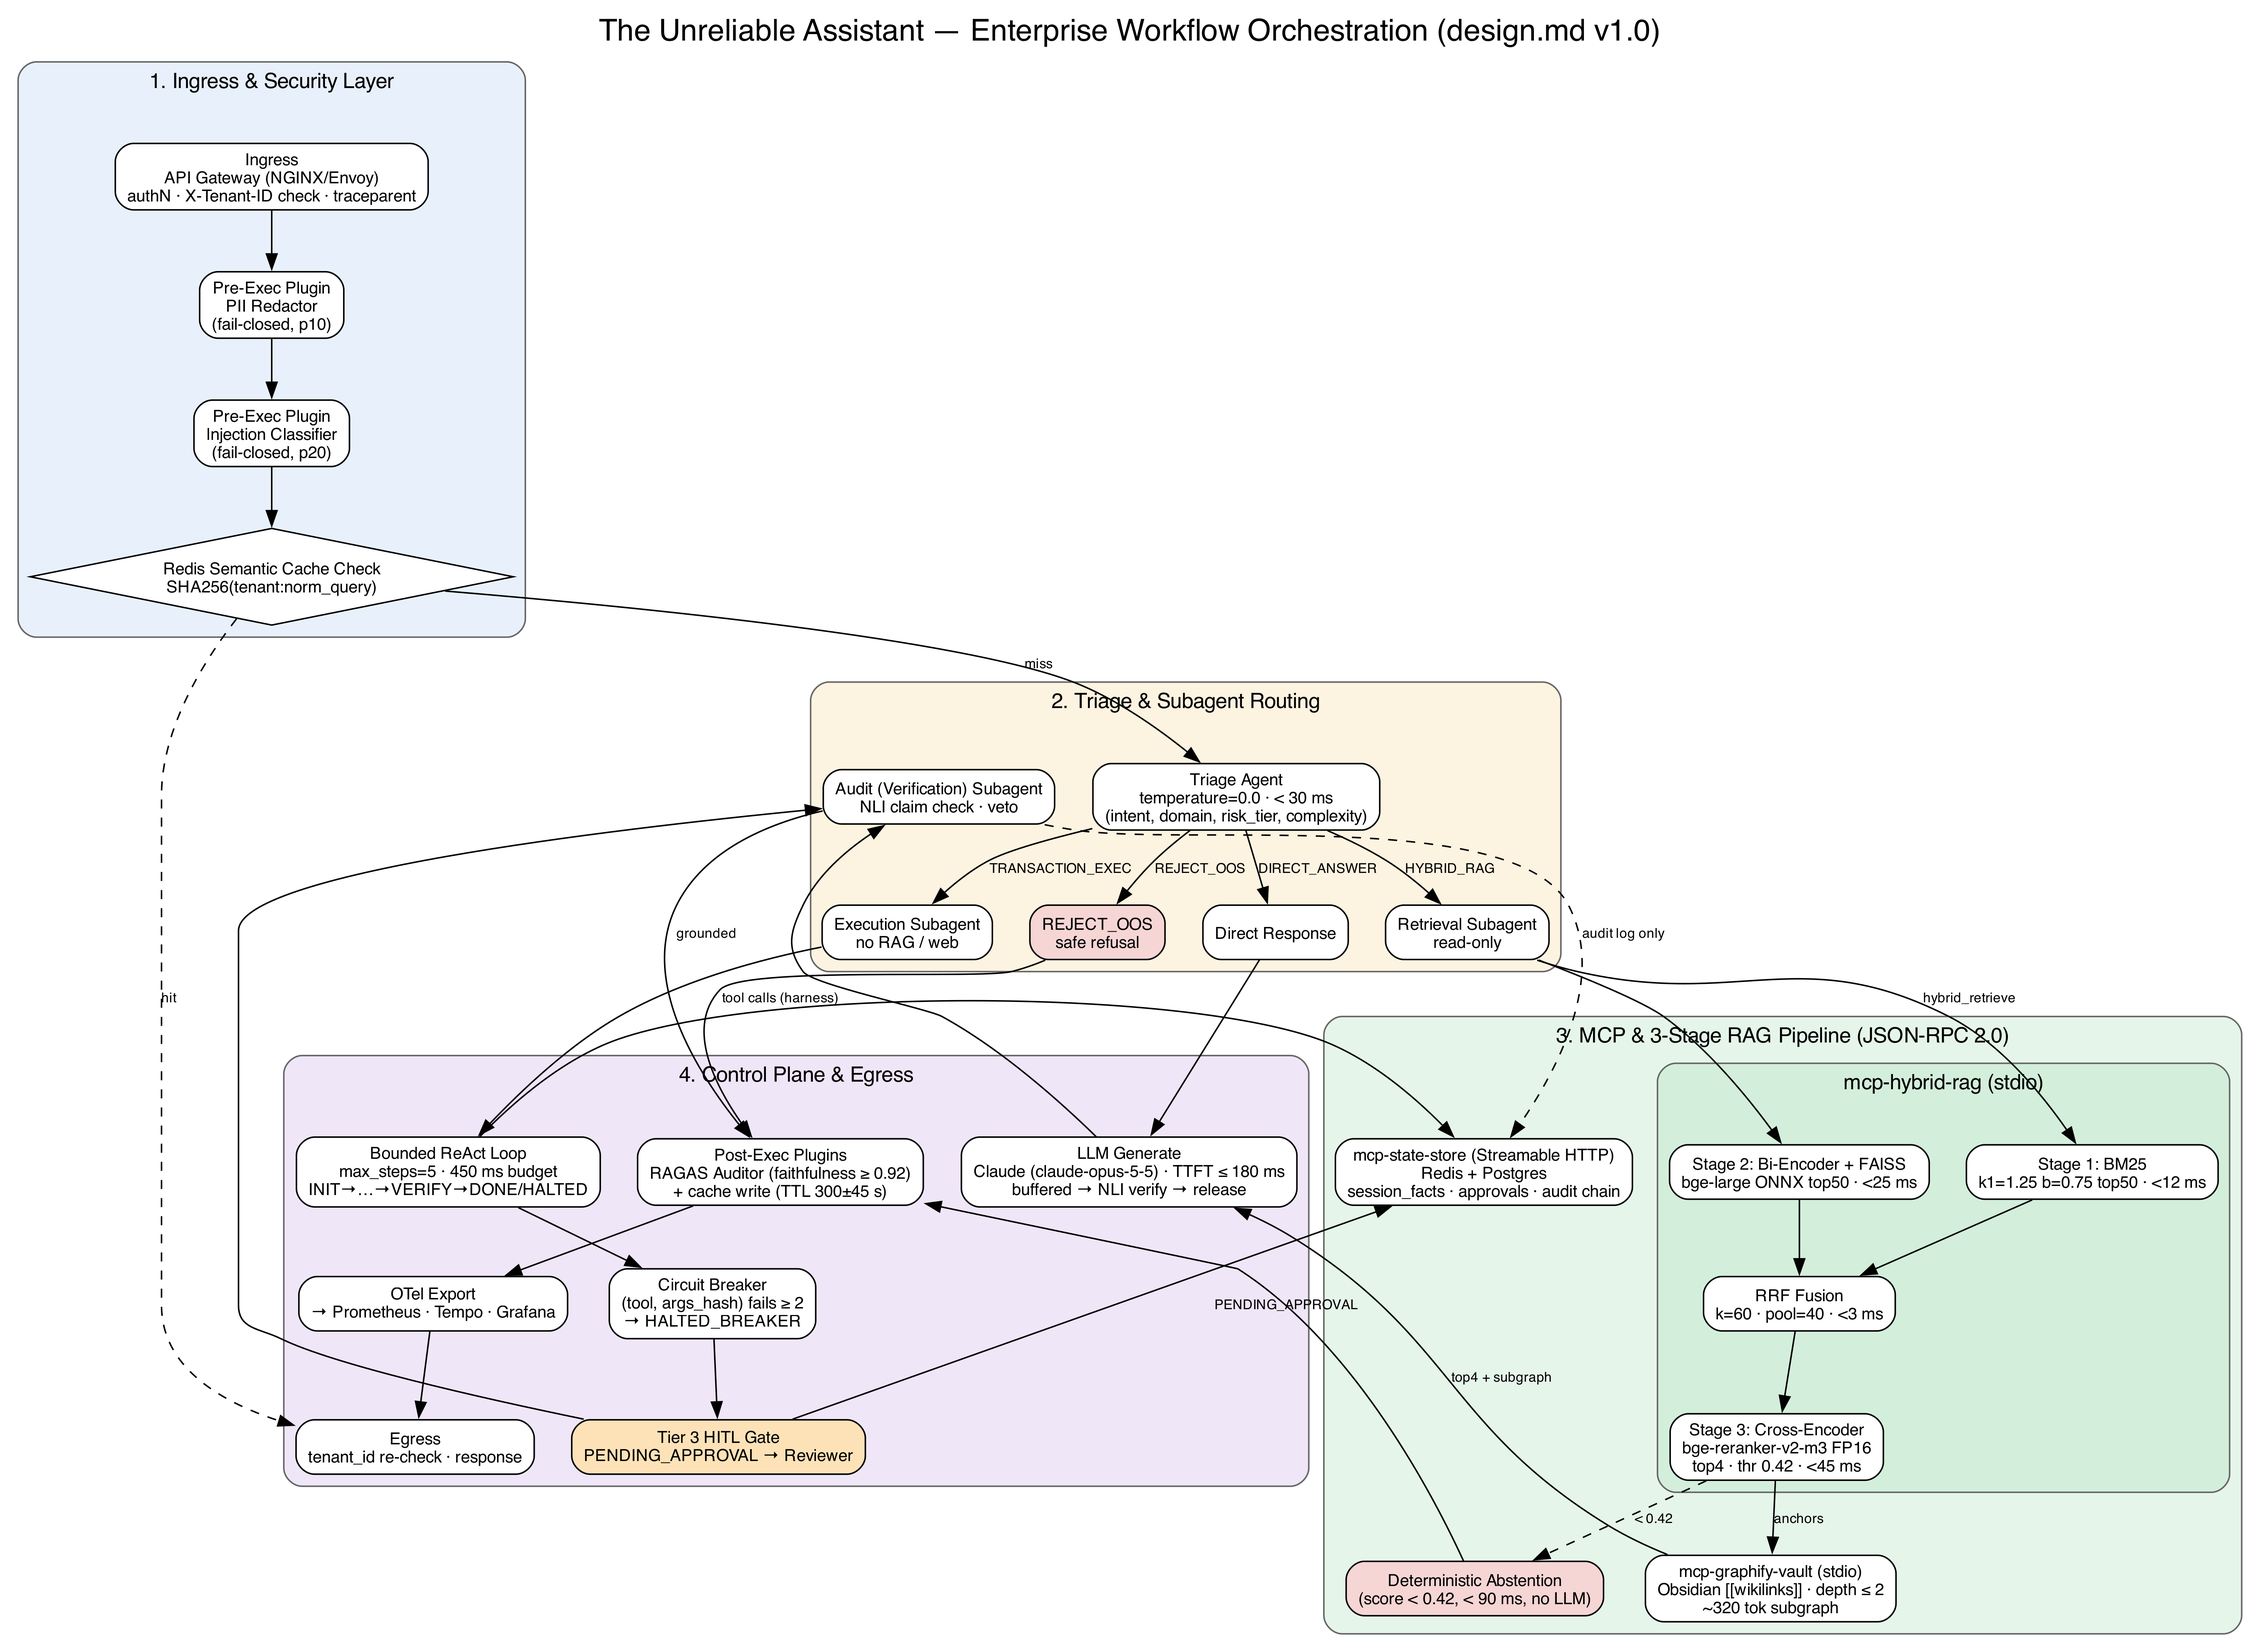
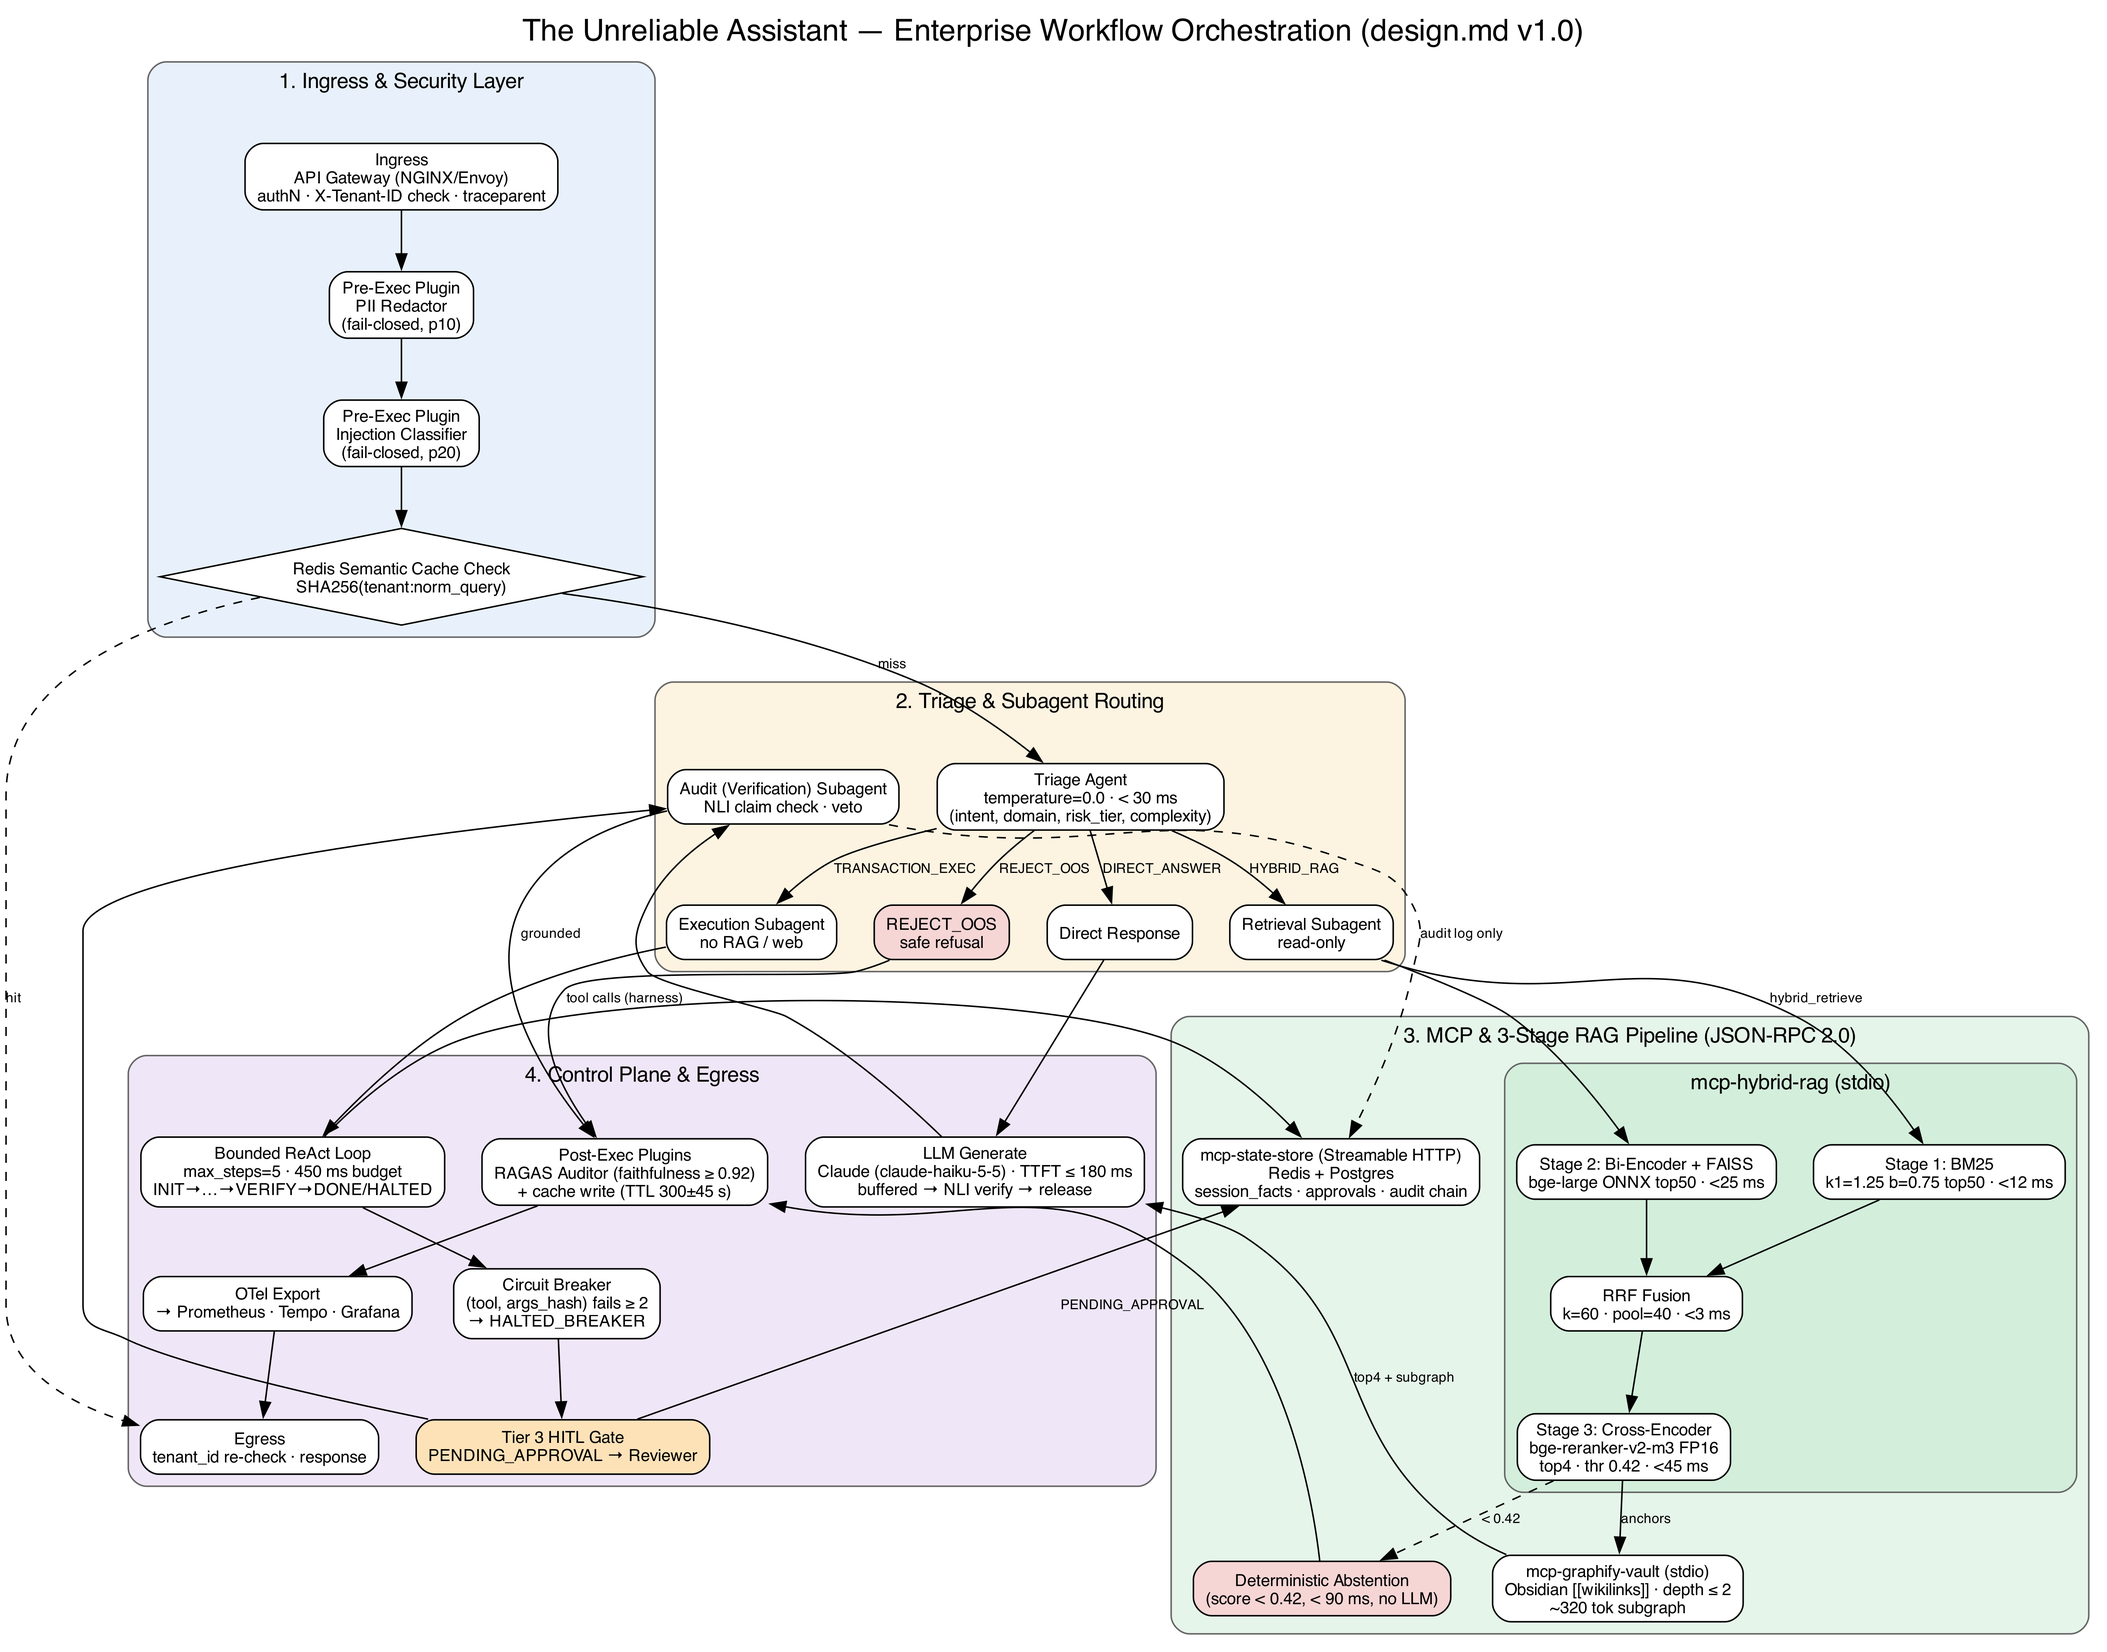
update 2

diff --git a/eval/build_golden.py b/eval/build_golden.py
@@ -8,6 +8,7 @@ Gold chunk hashes come from rag_server.chunk_notes, so they match indexes/rag ex
 """
 import argparse
 import json
+import os
 import random
 import re
 import sys
@@ -20,7 +21,10 @@ from pydantic import BaseModel, Field
 
 from mcp_servers.rag_server import VAULT, chunk_notes, load_notes
 
-GENERATOR, JUDGE = "claude-opus-5-5", "claude-sonnet-5-5"  # different judge model avoids self-preference bias
+# cheapest Claude for both (design.md ADR-008). Same-model judging risks self-preference bias;
+# set GOLDEN_JUDGE_MODEL=claude-sonnet-5-5 (~20x cost) for a stricter rebuild.
+GENERATOR = os.getenv("GOLDEN_GENERATOR_MODEL", "claude-haiku-5-5")
+JUDGE = os.getenv("GOLDEN_JUDGE_MODEL", "claude-haiku-5-5")
 FALLBACK_BETA = "server-side-fallback-2026-07-01"
 STRATA = {"factoid": 0.25, "complex_reasoning": 0.25, "multi_hop": 0.20, "summary": 0.15, "negative": 0.15}
 BRIEF = {
@@ -108,8 +112,9 @@ class Builder:
         self.notes = sorted({c["note_id"] for c in chunks})
 
     def _call(self, model: str, effort: str, prompt: str, fmt):
+        fallback = {} if "haiku" in model else {"betas": [FALLBACK_BETA], "fallbacks": "default"}  # Haiku 5.5: none
         r = self.client.beta.messages.parse(
-            model=model, max_tokens=16000, betas=[FALLBACK_BETA], fallbacks="default",
+            model=model, max_tokens=16000, **fallback,
             system=self.system, output_config={"effort": effort}, output_format=fmt,
             messages=[{"role": "user", "content": prompt}])
         return None if r.stop_reason == "refusal" else r.parsed_output

diff --git a/scripts/render_workflow.py b/scripts/render_workflow.py
@@ -52,7 +52,7 @@ with cluster(g, "control", "4. Control Plane & Egress", "#efe6f7") as c:
     c.node("react", "Bounded ReAct Loop\nmax_steps=5 · 450 ms budget\nINIT→…→VERIFY→DONE/HALTED")
     c.node("breaker", "Circuit Breaker\n(tool, args_hash) fails ≥ 2\n→ HALTED_BREAKER")
     c.node("hitl", "Tier 3 HITL Gate\nPENDING_APPROVAL → Reviewer", fillcolor="#fde2b8")
-    c.node("llm", "LLM Generate\nClaude (claude-opus-5-5) · TTFT ≤ 180 ms\nbuffered → NLI verify → release")
+    c.node("llm", "LLM Generate\nClaude (claude-haiku-5-5) · TTFT ≤ 180 ms\nbuffered → NLI verify → release")
     c.node("post", "Post-Exec Plugins\nRAGAS Auditor (faithfulness ≥ 0.92)\n+ cache write (TTL 300±45 s)")
     c.node("otel", "OTel Export\n→ Prometheus · Tempo · Grafana")
     c.node("egress", "Egress\ntenant_id re-check · response")

diff --git a/design.md b/design.md
@@ -22,7 +22,7 @@ The prototype we inherited has five known failures. Each one maps to a control i
 |---|---|---|
 | Agent runtime & API | Python 3.11, FastAPI, Uvicorn (async) | MCP host client (`mcp.ClientSession`) |
 | Sparse + dense retrieval | rank-bm25, FAISS HNSW, `bge-large-en-v1.5` (ONNX) | MCP server `mcp-hybrid-rag` (stdio) |
-| LLM | Claude via the Anthropic API (`anthropic` SDK), model `claude-opus-5-5` | Called by the Retrieval, Execution and Verification subagents |
+| LLM | Claude via the Anthropic API (`anthropic` SDK), model `claude-haiku-5-5` (ADR-008; `claude-opus-5-5` is the upgrade path) | Called by the Retrieval, Execution and Verification subagents |
 | Reranker | ONNX Runtime, `ms-marco-MiniLM-L-6-v2` FP32 (ADR-006; `bge-reranker-v2-m3` int8 is the fallback) | In-process / Triton microservice |
 | State & cache | SQLite (local), PostgreSQL +pgvector (dev, prod), Redis Cluster | MCP server `mcp-state-store` (Streamable HTTP) |
 | Token compression | Obsidian vault + Graphify graph | MCP server `mcp-graphify-vault` (stdio) |
@@ -240,7 +240,7 @@ flowchart LR
   VER -- audit only --> SS
   SS --> PG[(PostgreSQL + pgvector<br/>session_facts · approvals · audit chain)]
   SS --> REDIS
-  RET & EXE & VER --> LLM[Claude · Anthropic API<br/>claude-opus-5-5 · streaming · prompt cache]
+  RET & EXE & VER --> LLM[Claude · Anthropic API<br/>claude-haiku-5-5 · streaming · prompt cache]
   POST --> OTEL[OTel Collector] --> OBS[Prometheus · Tempo · Grafana]
   PG -. PENDING_APPROVAL .-> HITL[Reviewer UI / API]
 ```
@@ -486,9 +486,19 @@ The blueprint asks for 12 rows; this draft has 14. Rows 13–14 are additions an
   - The default eval is a **deterministic stratified sample of 50 questions** (seed 7, same category mix as the full set). `--limit 0` runs all 250.
   - Context precision and recall are computed **by the RAGAS definitions with gold chunk hashes as relevance labels**: precision is rank-weighted (mean precision@k over gold ranks) and recall is the share of gold chunks retrieved. A question where retrieval abstains scores 0 on both. This is exact, free and deterministic, with the same thresholds (≥ 0.88 / ≥ 0.85). ragas' own `IDBasedContextPrecision` is not used because it computes plain set precision, a different metric.
   - Answer relevancy uses `strictness=1` (1 reverse question, not 3).
-  - Default models are the cheapest paid ones: generator Claude Haiku 5.5. The judge is `deepseek/deepseek-v4-flash` on OpenRouter (another vendor, so it does not grade its own family) or Claude Haiku 5.5 on the Anthropic API. Free `:free` models are supported (run serially for the 20 requests/minute cap), but the 50-requests/day cap is too low for a default run. Set `GENERATOR_MODEL` to Claude Opus 5.5 to certify the production LLM (§0).
+  - Default models are the cheapest paid ones: generator Claude Haiku 5.5, the production LLM (ADR-008). The judge is `deepseek/deepseek-v4-flash` on OpenRouter (another vendor, so it does not grade its own family) or Claude Haiku 5.5 on the Anthropic API. Free `:free` models are supported (run serially for the 20 requests/minute cap), but the 50-requests/day cap is too low for a default run.
   - This leaves about 5 judge calls per answerable question: roughly 265 calls and about $0.17 per default run on OpenRouter (about $0.85 for all 250 questions).
 - **Consequences:**
   - With 50 questions, a metric's sampling error is about ±4–5 pts, so a score within ~0.05 of a threshold is inconclusive. Re-run with `--limit 0` and `JUDGE_MODEL` set to a Sonnet before trusting a borderline pass or fail.
   - ID-based context metrics treat any non-gold chunk as irrelevant, which is stricter than ragas' LLM variants when two chunks say the same thing.
   - A Haiku judge is less strict than Sonnet on faithfulness. Spot-check a few answers in `eval/runs/answers.jsonl` against their chunks.
+
+### ADR-008 — LLM: Claude Haiku 5.5 everywhere (amends §0)
+- **Context:** This is a side project with low traffic and a small budget. Claude Opus 5.5 costs $4 / $20 per 1M tokens; Claude Haiku 5.5 costs $0.10 / $0.50, 40× less.
+- **Decision:**
+  - The Retrieval, Execution and Verification subagents call `claude-haiku-5-5`.
+  - Eval scripts default to the cheapest models: `run_ragas.py` uses Haiku 5.5 as generator with `deepseek/deepseek-v4-flash` (OpenRouter) or Haiku 5.5 as judge (ADR-007), and `build_golden.py` uses Haiku 5.5 for generation and judging (`GOLDEN_*_MODEL` to override).
+  - Haiku 5.5 has no server-side refusal fallback, so code sends `fallbacks` only for non-Haiku models.
+- **Consequences:**
+  - Expect lower faithfulness and multi-hop answer quality than Opus. Gate 3 measures this directly; if KPI-20/21 fail, upgrade the generator to `claude-sonnet-5-5`, then `claude-opus-5-5`, via `GENERATOR_MODEL`.
+  - Using Haiku as both generator and judge in `build_golden.py` risks self-preference bias. Rebuild with `GOLDEN_JUDGE_MODEL=claude-sonnet-5-5` before trusting the golden set for a release decision.
